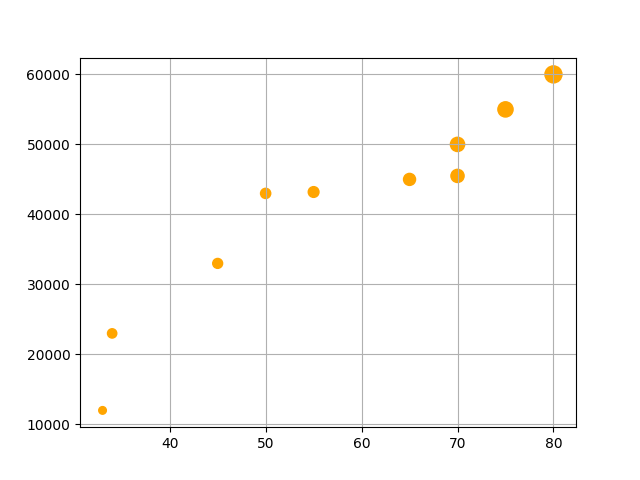
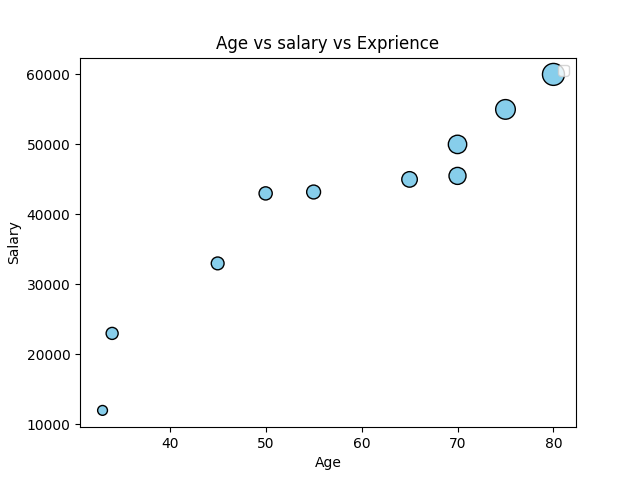
created

diff --git a/scaterplotNNN.py b/scaterplotNNN.py
@@ -7,7 +7,9 @@ data = {
 }
 df = pd.DataFrame(data)
 df["exprience"] = [1,1.5,1.7,1.8,2,2.5,3,3.5,4,5]
-plt.scatter(df["Age"],df["salary"],s = df["exprience"] * 30, color="orange")
-plt.grid()
+plt.scatter(df["Age"],df["salary"],s = df["exprience"] * 50, color="skyblue",edgecolors="black")
+plt.title("Age vs salary vs Exprience")
+plt.xlabel ("Age")
+plt.ylabel("Salary")
 plt.show()
 #Refer figure 13
